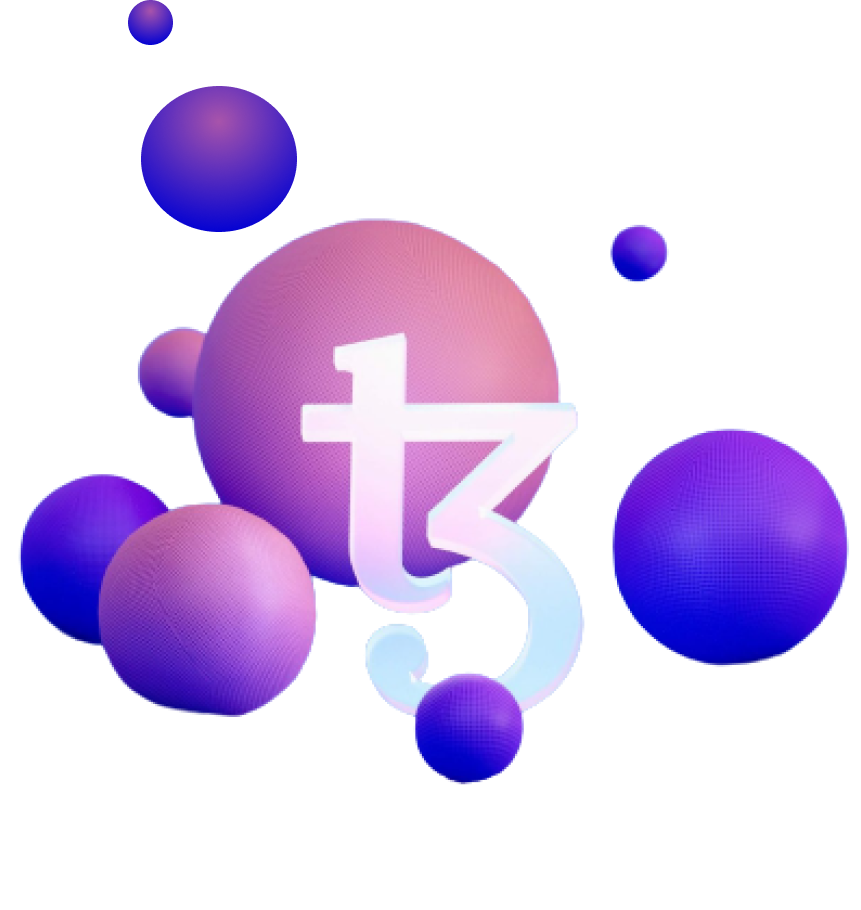
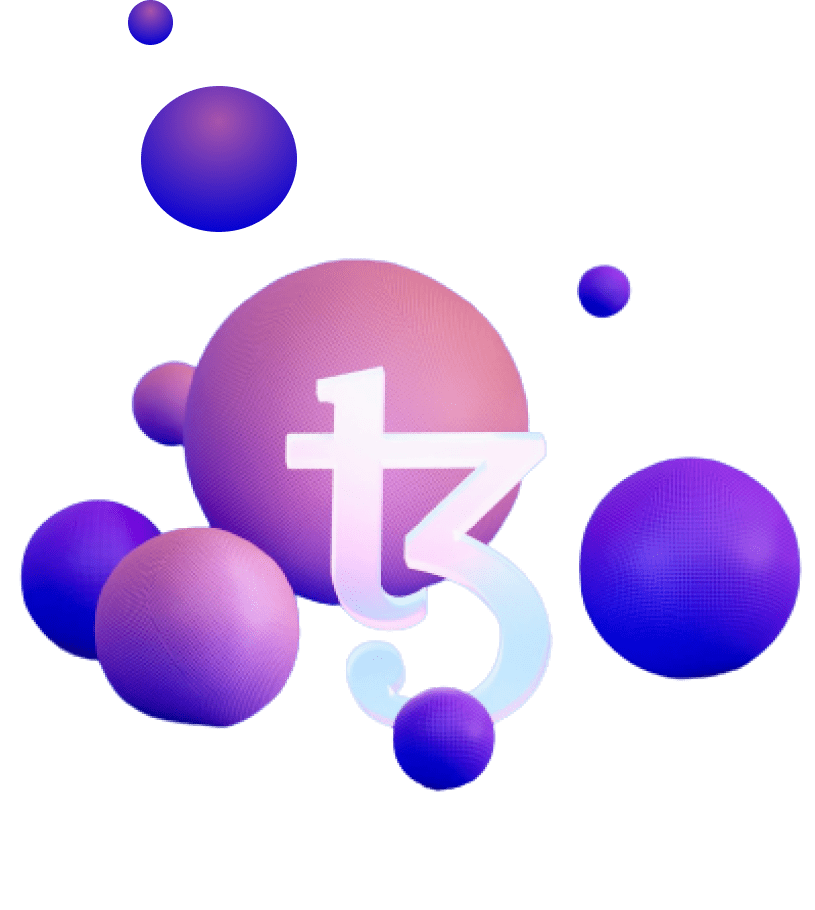
partners image, update text, better resolution header image

diff --git a/www/main.css b/www/main.css
@@ -190,7 +190,6 @@ header div a:hover {
 
 th {
   background: #263042;
-  color: 
 }
 
 .container .title {
@@ -210,6 +209,16 @@ th {
   position: relative;
   padding: 15px 25px;
   transition: all 0.2s ease;
+}
+
+.container img.title {
+  background: #16232a;
+  width: 85px;
+  height: 85px;
+}
+
+.container img.title:hover {
+  background-color: #2b4356;
 }
 
 .container .title:after {

diff --git a/src/index.md b/src/index.md
@@ -319,7 +319,8 @@ Tezos have ambitious and thriving marketing collaborations with some of the most
 <div>
 
 </div>
-<button class="title">Ballon d'or </button>
+
+<img class="title" src="./images/ballon.webp"/>
 
 <div class="panel">
 
@@ -328,7 +329,7 @@ Along with the Ballon d'or trophey which celebrates best soccer player of the ye
 </p>
 
 </div>
-<button class="title">Manchester United</button>
+<img class="title" src="./images/manchester.webp"/>
 
 <div class="panel">
 
@@ -337,7 +338,7 @@ Through this partnership, Tezos appears on the Club’s range of training kits a
 </p>
 
 </div>
-<button class="title">Red Bull Racing</button>
+<img class="title" src="./images/redbull.webp"/>
 
 <div class="panel">
 
@@ -347,18 +348,18 @@ Tezos became the Team's Official Blockchain Partner in June 2021, most notably t
 </p>
 
 </div>
-<button class="title">McLaren</button>
+<img class="title" src="./images/pmu.webp"/>
 
 <div class="panel">
 
 <p class="description">
 
-McLaren Racing chose Tezos as its Official Blockchain Partner to create a NFT  fan experience based on _the most illustrious racing heritage and the most exciting driver line-ups across multiple racing teams_.
+Horse betting giant PMU launched a fantasy sports entertainment platform called “Stables” using Tezos-based NFTs. It enables players to experience “the intensity of horse racing and the endless possibilities of Web3".
 
 </p>
 
 </div>
-<button class="title">Team Vitality</button>
+<img class="title" src="./images/vitality.webp"/>
 
 <div class="panel">
 
@@ -367,7 +368,7 @@ Team Vitality and Tezos signed a technical partnership to give the organization'
 </p>
 
 </div>
-<button class="title">Ubisoft</button>
+<img class="title" src="./images/ubisoft.webp"/>
 
 <div class="panel">
 
